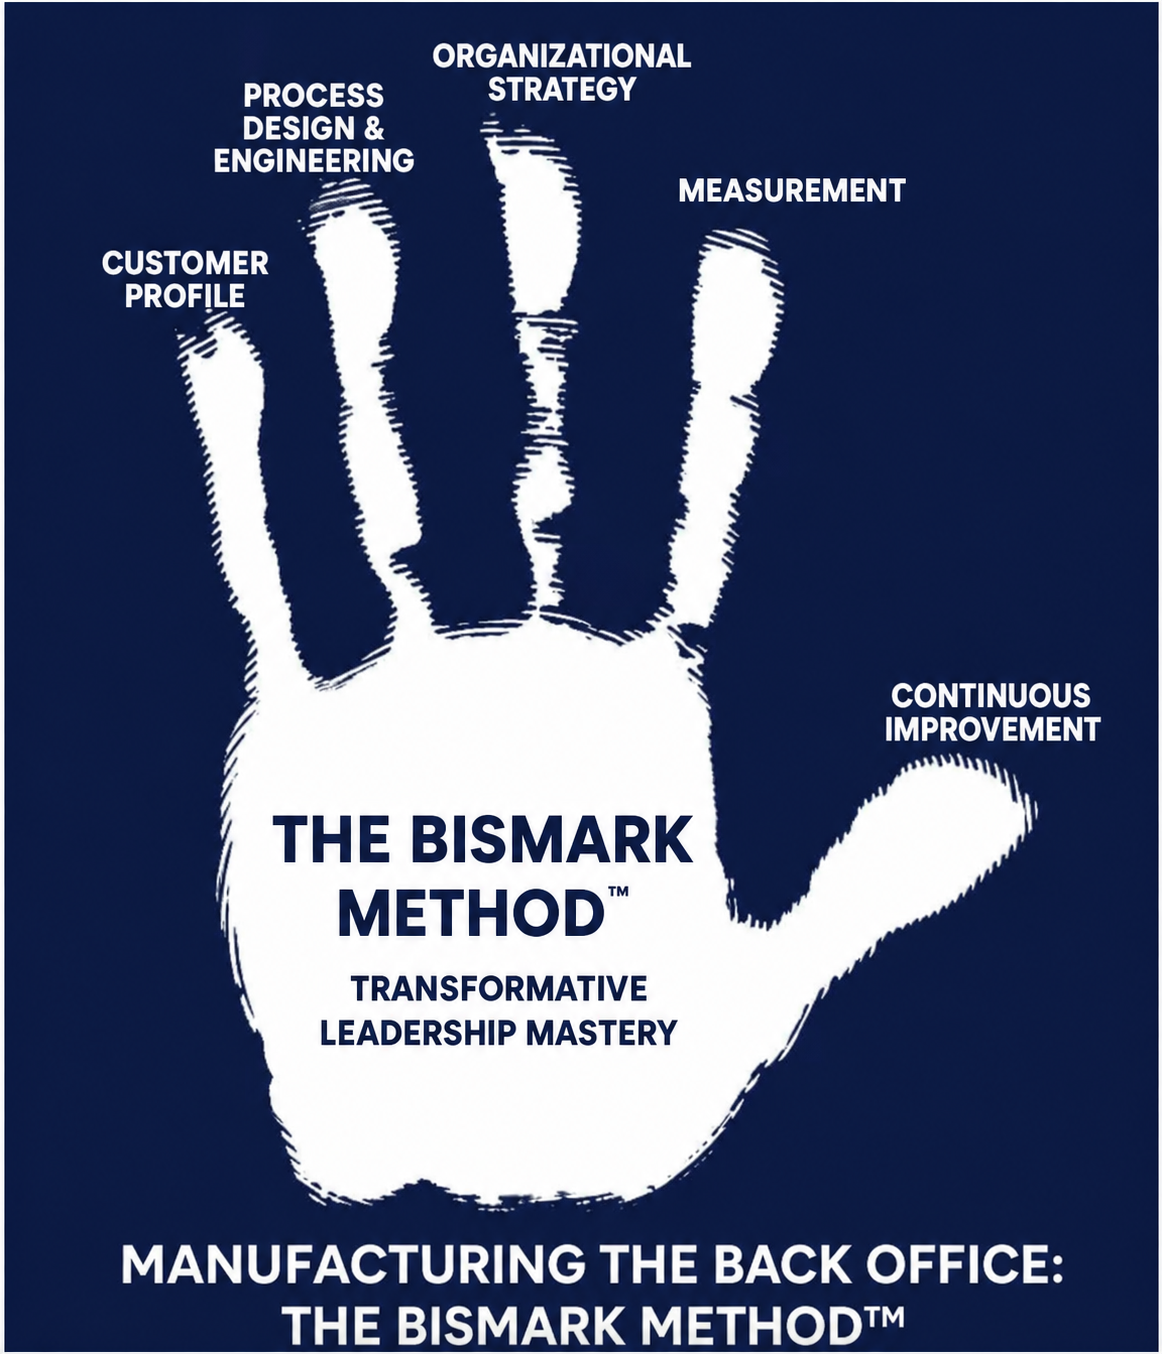
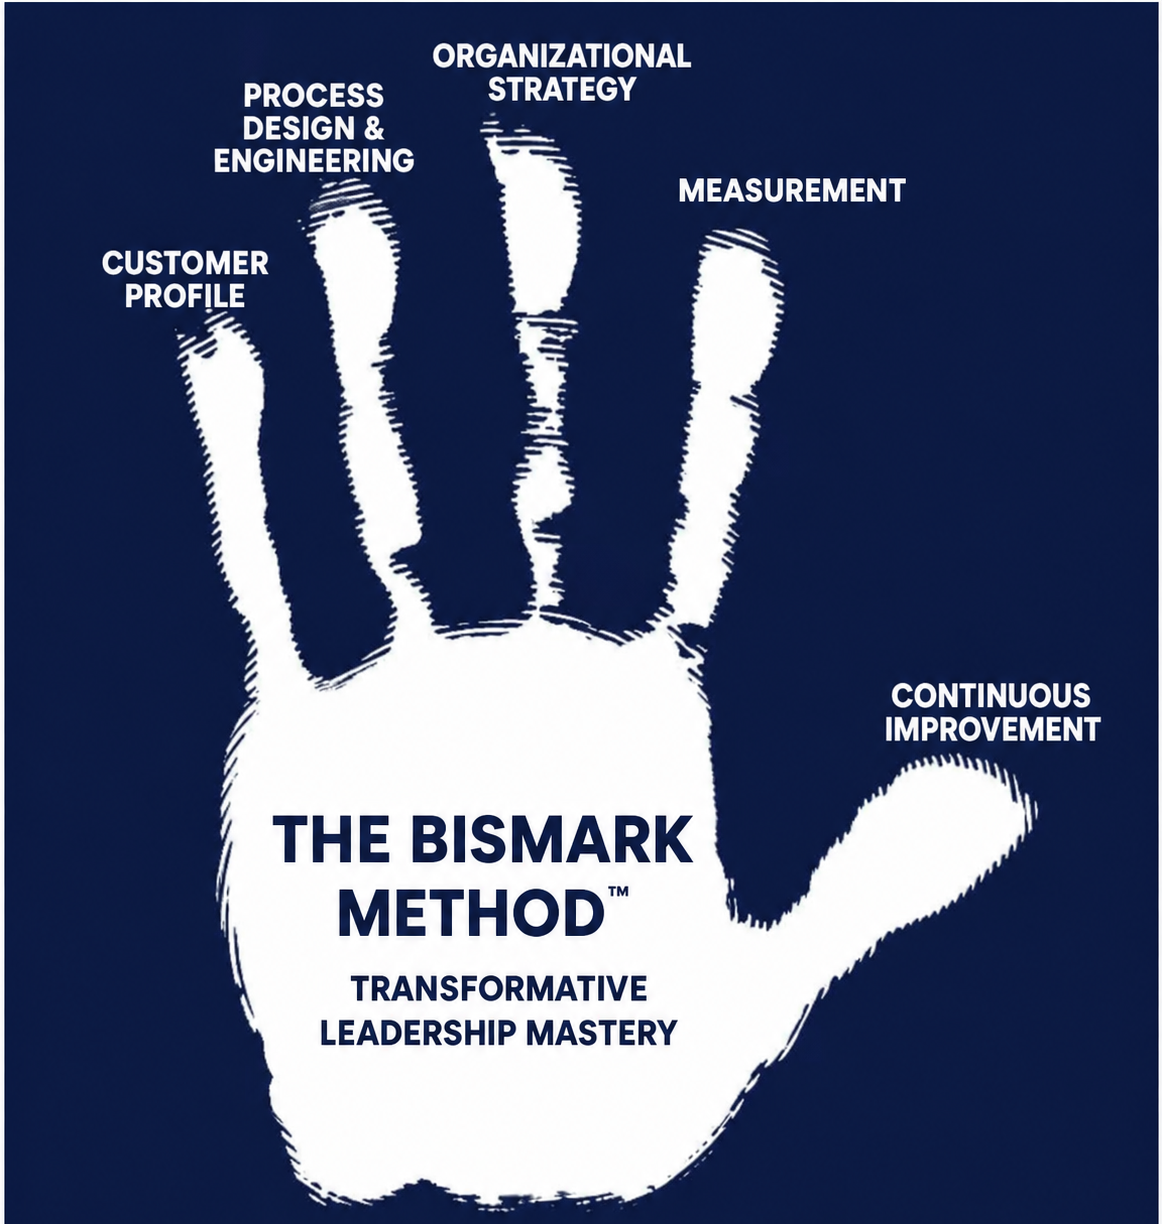
Refresh CTAs, contact copy, industry nav, hand image, and AI page copy

Changed region(s): [[0.0, 0.0621, 1.0, 1.0], [0.3718, 0.031, 0.5886, 0.1552], [0.4957, 0.1552, 0.5267, 0.1863]]

diff --git a/src/components/IndustrySubPageLayout.tsx b/src/components/IndustrySubPageLayout.tsx
@@ -1,23 +1,13 @@
-import Link from 'next/link';
 import Image from 'next/image';
-import { ArrowRight, ArrowLeft } from 'lucide-react';
 import CalendlyButton from './CalendlyButton';
 import WireframePlaceholder from './WireframePlaceholder';
 import type { Industry } from '../data/industries';
-import { industries } from '../data/industries';
 
 type Props = {
   industry: Industry;
 };
 
 export default function IndustrySubPageLayout({ industry }: Props) {
-  const prevIndustry = industry.prev
-    ? industries.find((i) => i.slug === industry.prev)
-    : null;
-  const nextIndustry = industry.next
-    ? industries.find((i) => i.slug === industry.next)
-    : null;
-
   return (
     <div className="bg-white">
       {/* Header Bar */}
@@ -129,44 +119,6 @@ export default function IndustrySubPageLayout({ industry }: Props) {
             full engagement.
           </p>
           <CalendlyButton label="SCHEDULE A MEETING" className="inline-flex items-center gap-2 bg-gold-600 text-navy-900 px-12 py-5 font-display text-xl hover:bg-gold-500 transition-colors" />
-        </div>
-      </section>
-
-      {/* Sub-page Navigation */}
-      <section className="py-12 bg-gray-50 border-t border-gray-200">
-        <div className="max-w-7xl mx-auto px-4 sm:px-6 lg:px-8">
-          <div className="flex flex-col sm:flex-row items-center justify-between gap-4">
-            <div className="flex items-center gap-6">
-              {prevIndustry && (
-                <Link
-                  href={`/industries/${prevIndustry.slug}`}
-                  className="flex items-center gap-2 text-navy-700 hover:text-gold-600 transition-colors font-medium"
-                >
-                  <ArrowLeft className="w-4 h-4" />
-                  {prevIndustry.name}
-                </Link>
-              )}
-            </div>
-
-            <Link
-              href="/industries"
-              className="text-navy-700 hover:text-gold-600 transition-colors font-medium"
-            >
-              &larr; Back to Industries
-            </Link>
-
-            <div className="flex items-center gap-6">
-              {nextIndustry && (
-                <Link
-                  href={`/industries/${nextIndustry.slug}`}
-                  className="flex items-center gap-2 text-navy-700 hover:text-gold-600 transition-colors font-medium"
-                >
-                  {nextIndustry.name}
-                  <ArrowRight className="w-4 h-4" />
-                </Link>
-              )}
-            </div>
-          </div>
         </div>
       </section>
     </div>

diff --git a/src/views/AIPage.tsx b/src/views/AIPage.tsx
@@ -24,10 +24,10 @@ export default function AIPage() {
           <div className="bg-gold-600 h-1 w-24 mb-8" />
           <div className="space-y-6 text-lg text-gray-700 leading-relaxed">
             <p>
-              Functioning workflows are not imported; they are uncovered. The Bismark Method is built around that: walking your operation, sitting with your people, and surfacing how the work actually gets done. Twenty-five years of doing this has taught us one thing: automation only works on operations that have been seen clearly first. The Bismark Method comes first. Automation comes second.
+              Functioning workflows are not imported; they are uncovered. The Bismark Method is built around that: walking your operation, sitting with your people, and surfacing how the work actually gets done. Twenty-five years of doing this has taught us one thing: automation only works on operations that have been optimized. The Bismark Method comes first. Automation comes second.
             </p>
             <p>
-              Once an operation has been rebuilt the right way, the next question is keeping it that way: holding gains, catching drift, and monitoring what matters. The engagement ends; the results shouldn&rsquo;t.
+              Once an operation has been rebuilt the right way, the next question is keeping it that way: holding gains, monitoring what matters and understanding where change is needed. The engagement ends; the results shouldn&rsquo;t.
             </p>
           </div>
         </div>

diff --git a/src/views/ContactPage.tsx b/src/views/ContactPage.tsx
@@ -204,7 +204,7 @@ const ContactPage = () => {
                 <div className="w-12 h-12 bg-navy-900 rounded-lg flex items-center justify-center mx-auto mb-4">
                   <MapPin className="w-6 h-6 text-gold-600" />
                 </div>
-                <h3 className="font-display text-lg text-navy-900 mb-2">NATIONWIDE</h3>
+                <h3 className="font-display text-lg text-navy-900 mb-2">INTERNATIONALLY</h3>
                 <p className="text-gray-600 text-sm">
                   Active client engagements across all major U.S. markets
                 </p>

diff --git a/src/views/WalkthroughPage.tsx b/src/views/WalkthroughPage.tsx
@@ -389,7 +389,7 @@ const WalkthroughPage = () => {
 
           <div className="flex justify-center">
             <CalendlyButton
-              label="SELECT A DATE & TIME"
+              label="SCHEDULE A MEETING"
               className="inline-flex items-center justify-center gap-3 bg-gold-600 text-navy-900 px-10 py-5 font-display text-xl hover:bg-gold-500 transition-colors shadow-lg"
             />
           </div>

diff --git a/CHANGELOG.md b/CHANGELOG.md
@@ -24,6 +24,31 @@ One or two sentences describing what the session accomplished.
 
 <!-- Entries below this line are added chronologically, newest first -->
 
+### 2026-05-03 — Refresh CTAs, contact copy, industry nav, hand image, and AI page copy
+
+**Files Modified:**
+- `src/views/WalkthroughPage.tsx` — CalendlyButton label changed from `SELECT A DATE & TIME` to `SCHEDULE A MEETING`.
+- `src/views/ContactPage.tsx` — `WHERE WE WORK` section's first card label changed from `NATIONWIDE` to `INTERNATIONALLY` (preserved uppercase). The card's body copy ("Active client engagements across all major U.S. markets") was left untouched per scope.
+- `src/components/IndustrySubPageLayout.tsx` — removed the `{/* Sub-page Navigation */}` `<section>` block that rendered the prev/next industry links and the "Back to Industries" link above the footer on every dynamic `/industries/[slug]` page. Removed the now-unused `prevIndustry`/`nextIndustry` lookup logic and the now-unused imports: `Link` from `next/link`, `ArrowLeft`/`ArrowRight` from `lucide-react`, and the `industries` named import from `../data/industries`. Kept `Image`, `CalendlyButton`, `WireframePlaceholder`, the `Industry` type import, and the `ArrowRight`-unrelated remaining icons all unchanged. The `prev` / `next` fields on individual `Industry` entries in `src/data/industries.ts` are now dead data (no consumer) but were intentionally left in place per scope.
+- `src/views/AIPage.tsx` — `HOW WE THINK ABOUT AI` section paragraph 1: changed `automation only works on operations that have been seen clearly first` to `automation only works on operations that have been optimized`. Paragraph 2: changed `holding gains, catching drift, and monitoring what matters` to `holding gains, monitoring what matters and understanding where change is needed`. The closing `The engagement ends; the results shouldn't.` (with curly apostrophe via `&rsquo;`) is unchanged.
+- `public/images/the-bismark-method-hand.png` — cropped from 1162 × 1354 to 1162 × 1224 (removed the bottom 130px / 9.6% of height). The cropped strip held the `MANUFACTURING THE BACK OFFICE: THE BISMARK METHOD™` two-line text band and a thin white footer bar. Saved back to the same filename so all existing references continue to work without source changes. No `@2x` or other variant exists.
+
+**Files Created:**
+- (none)
+
+**Files Deleted:**
+- (none — `IndustrySubPageLayout.tsx` is still the right component; only the prev/next section inside it was removed.)
+
+**Build verification:**
+- `npm run build` clean — 25 static pages generated, TypeScript ok with strict unused-import checking. Static-HTML grep confirmed: `walkthrough.html` shows `SCHEDULE A MEETING` × 1 and `SELECT A DATE` × 0; `contact.html` shows `INTERNATIONALLY` and `NATIONWIDE` × 0; `ai.html` shows `have been optimized` and `understanding where change is needed` and `seen clearly first` × 0 and `catching drift` × 0; `industries/banking-lending.html` shows `Back to Industries` × 0. Hand image was viewed after cropping — text band confirmed gone, hand silhouette and all five labels intact, navy padding balanced top and bottom.
+
+**Decisions and notes:**
+- **Task 1 (`virtual meeting` → `walkthrough`):** Grep returned no live code hits — only one historical mention inside `CHANGELOG.md` describing the *previous* short-lived rename. Per project standard, CHANGELOG history is immutable. **No code change made.** The `SCHEDULE A MEETING` button label site-wide is unrelated to this grep target.
+- **Task 2 (`Select a Date and Time`):** Grep found exactly one in-code hit in `WalkthroughPage.tsx` (case A — a `CalendlyButton` `label` prop on our side). Renamed. The text **also** appears inside Calendly's hosted iframe (case B), which we cannot modify cross-origin per project standard. Flagged: *"Select a Date and Time" lives in Calendly's iframe and must be changed in Calendly event settings, not in code* — applies to the booking widget itself once it loads.
+- **Task 5 (hand image):** Chose **crop**, not paint-over. The text band sits at the bottom edge of the canvas, separated from the hand wrist by a clean ~40px navy gap, with no overlap on the hand or any of the five pillar labels. Cropping at y=1224 produced a tighter composition with balanced navy padding above and below the hand; painting over would have left an awkward solid navy strip below the wrist and made the canvas feel artificially padded.
+
+---
+
 ### 2026-05-03 — Replace Non-Negotiable Order callout with static diagram image
 
 **Files Created:**
